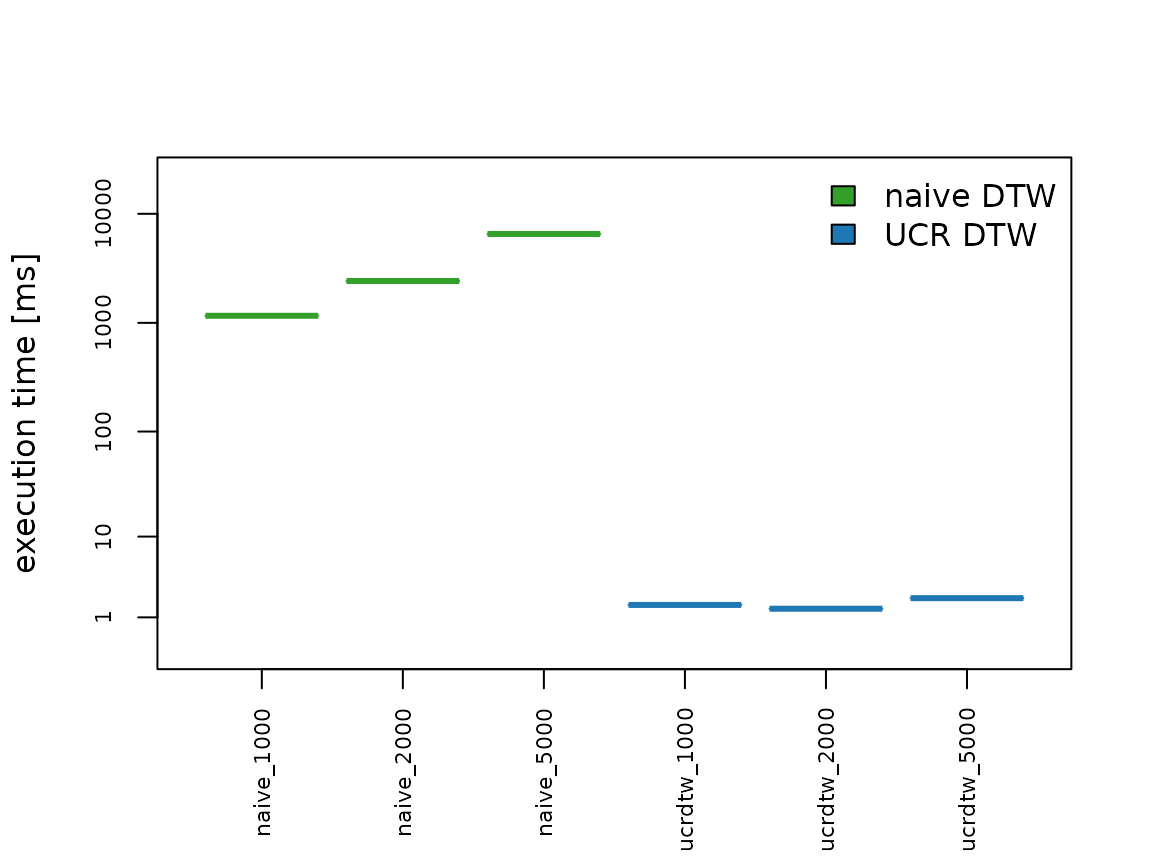
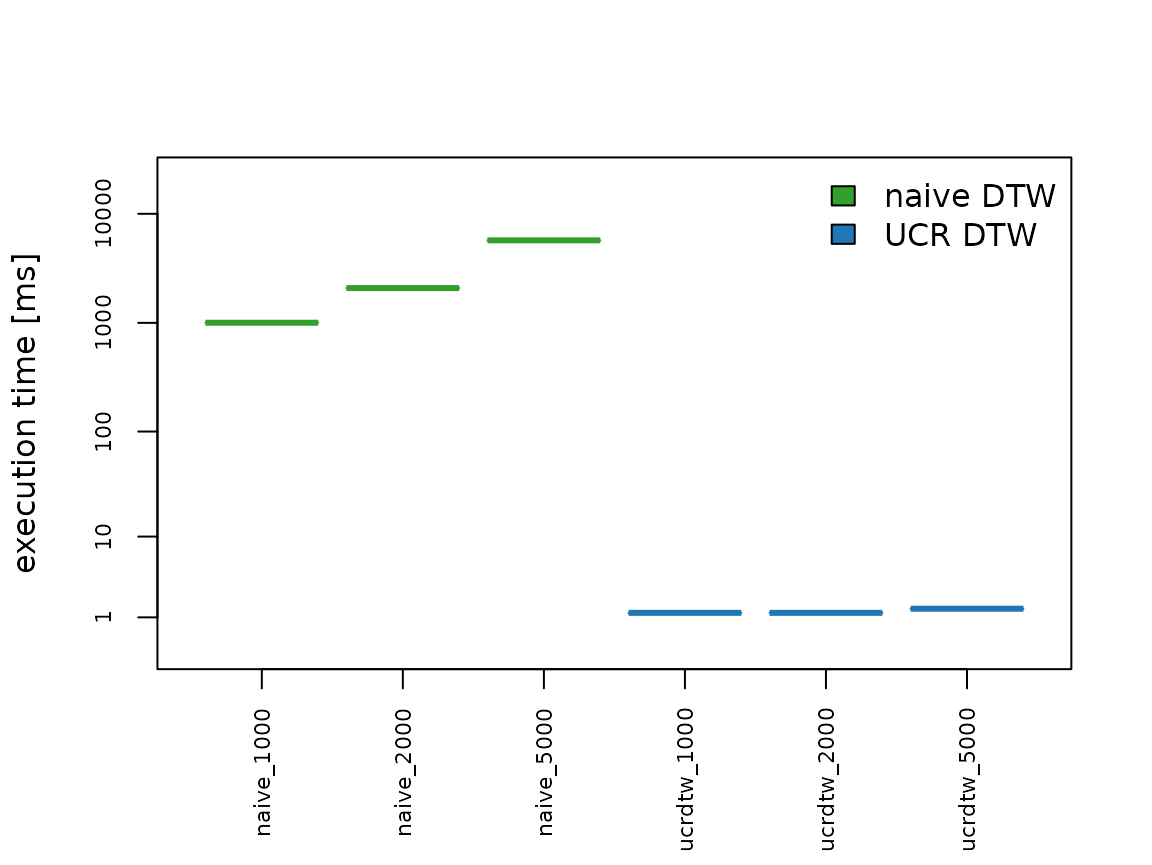
Deploying to gh-pages from @ pboesu/rucrdtw@89774ada276e8e600119e4f0471134d3d19ee047 🚀

diff --git a/articles/using_rucrdtw.html b/articles/using_rucrdtw.html
@@ -143,14 +143,14 @@ methods for the search.</p>
 <div class="sourceCode" id="cb5"><pre class="downlit sourceCode r">
 <code class="sourceCode R"><span><span class="fu"><a href="https://rdrr.io/r/base/system.time.html" class="external-link">system.time</a></span><span class="op">(</span><span class="va">dtw_search</span> <span class="op">&lt;-</span> <span class="fu"><a href="../reference/ucrdtw_vv.html">ucrdtw_vv</a></span><span class="op">(</span>data <span class="op">=</span> <span class="va">rwalk</span>, query <span class="op">=</span> <span class="va">query</span>, dtwwindow <span class="op">=</span> <span class="fl">0.05</span><span class="op">)</span><span class="op">)</span></span></code></pre></div>
 <pre><code><span><span class="co">##    user  system elapsed </span></span>
-<span><span class="co">##   2.275   0.000   2.276</span></span></code></pre>
+<span><span class="co">##   1.820   0.001   1.821</span></span></code></pre>
 <div class="sourceCode" id="cb7"><pre class="downlit sourceCode r">
 <code class="sourceCode R"><span><span class="fu"><a href="https://rdrr.io/r/base/all.equal.html" class="external-link">all.equal</a></span><span class="op">(</span><span class="va">qstart</span>, <span class="va">dtw_search</span><span class="op">$</span><span class="va">location</span><span class="op">)</span></span></code></pre></div>
 <pre><code><span><span class="co">## [1] TRUE</span></span></code></pre>
 <div class="sourceCode" id="cb9"><pre class="downlit sourceCode r">
 <code class="sourceCode R"><span><span class="fu"><a href="https://rdrr.io/r/base/system.time.html" class="external-link">system.time</a></span><span class="op">(</span><span class="va">ed_search</span> <span class="op">&lt;-</span> <span class="fu"><a href="../reference/ucred_vv.html">ucred_vv</a></span><span class="op">(</span>data <span class="op">=</span> <span class="va">rwalk</span>, query <span class="op">=</span> <span class="va">query</span><span class="op">)</span><span class="op">)</span></span></code></pre></div>
 <pre><code><span><span class="co">##    user  system elapsed </span></span>
-<span><span class="co">##   1.192   0.000   1.192</span></span></code></pre>
+<span><span class="co">##   0.956   0.000   0.956</span></span></code></pre>
 <div class="sourceCode" id="cb11"><pre class="downlit sourceCode r">
 <code class="sourceCode R"><span><span class="fu"><a href="https://rdrr.io/r/base/all.equal.html" class="external-link">all.equal</a></span><span class="op">(</span><span class="va">qstart</span>, <span class="va">ed_search</span><span class="op">$</span><span class="va">location</span><span class="op">)</span></span></code></pre></div>
 <pre><code><span><span class="co">## [1] TRUE</span></span></code></pre>
@@ -262,7 +262,7 @@ Conference on Informatics, Ioannina</em>, 27–29.
 <div id="ref-berndt1994using" class="csl-entry">
 Berndt, Donald J, and James Clifford. 1994. <span>“Using Dynamic Time
 Warping to Find Patterns in Time Series.”</span> In <em>KDD
-Workshop</em>, 10:359–70. 16. AAAI. <a href="http://www.aaai.org/Library/Workshops/1994/ws94-03-031.php" class="external-link">http://www.aaai.org/Library/Workshops/1994/ws94-03-031.php</a>.
+Workshop</em>, 10:359–70. 16. AAAI. <a href="https://www.aaai.org/Library/Workshops/1994/ws94-03-031.php" class="external-link">https://www.aaai.org/Library/Workshops/1994/ws94-03-031.php</a>.
 </div>
 <div id="ref-Rcpp" class="csl-entry">
 Eddelbuettel, Dirk, and Romain Francois. 2011. <span>“Rcpp: Seamless r

diff --git a/index.html b/index.html
@@ -119,7 +119,7 @@
 <p>COPYRIGHT 2012: Thanawin Rakthanmanon, Bilson Campana, Abdullah Mueen, Gustavo Batista and Eamonn Keogh. (UCR Suite source code)</p>
 <p>COPYRIGHT 2016: Philipp Boersch-Supan (R bindings)</p>
 <p>Licensed under the Apache License, Version 2.0 (the “License”); you may not use this file except in compliance with the License. You may obtain a copy of the License at</p>
-<p><a href="http://www.apache.org/licenses/LICENSE-2.0" class="external-link uri">http://www.apache.org/licenses/LICENSE-2.0</a></p>
+<p><a href="https://www.apache.org/licenses/LICENSE-2.0" class="external-link uri">https://www.apache.org/licenses/LICENSE-2.0</a></p>
 <p>Unless required by applicable law or agreed to in writing, software distributed under the License is distributed on an “AS IS” BASIS, WITHOUT WARRANTIES OR CONDITIONS OF ANY KIND, either express or implied. See the License for the specific language governing permissions and limitations under the License.</p>
 </div>
 </div>
@@ -173,7 +173,7 @@
 <h2 data-toc-skip>Dev status</h2>
 <ul class="list-unstyled">
 <li><a href="https://github.com/pboesu/rucrdtw/actions" class="external-link"><img src="https://github.com/pboesu/rucrdtw/workflows/R-CMD-check/badge.svg" alt="R-CMD-check"></a></li>
-<li><a href="https://codecov.io/gh/pboesu/rucrdtw" class="external-link"><img src="https://codecov.io/gh/pboesu/rucrdtw/branch/master/graph/badge.svg" alt="codecov"></a></li>
+<li><a href="https://app.codecov.io/gh/pboesu/rucrdtw" class="external-link"><img src="https://codecov.io/gh/pboesu/rucrdtw/branch/master/graph/badge.svg" alt="codecov"></a></li>
 <li><a href="https://cran.r-project.org/package=rucrdtw" class="external-link"><img src="http://www.r-pkg.org/badges/version/rucrdtw" alt="CRAN_Status_Badge"></a></li>
 <li><a href="http://doi.org/10.21105/joss.00100" class="external-link"><img src="https://img.shields.io/badge/Peer%20Reviewed-%E2%9C%93-green.svg" alt="Peer_Reviewed_Software"></a></li>
 <li><a href="http://doi.org/10.21105/joss.00100" class="external-link"><img src="https://img.shields.io/badge/DOI-10.21105%2Fjoss.00100-blue.svg" alt="DOI:10.21105/joss.00100"></a></li>
